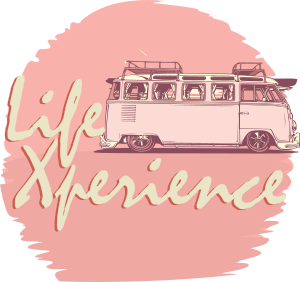
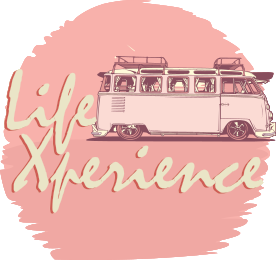
Añadidos iconos en Portal en Header y cambiado logotipo en el login a un tamaño adecuado para pantallas más pequeñas

diff --git a/Frontend/src/app/portal-web/portal-web-home/portal-web.component.html b/Frontend/src/app/portal-web/portal-web-home/portal-web.component.html
@@ -7,21 +7,81 @@
     <link href="https://cdn.jsdelivr.net/npm/bootstrap@5.2.0-beta1/dist/css/bootstrap.min.css" rel="stylesheet" integrity="sha384-0evHe/X+R7YkIZDRvuzKMRqM+OrBnVFBL6DOitfPri4tjfHxaWutUpFmBp4vmVor" crossorigin="anonymous">
   </head>
   <body>
+    <svg xmlns="http://www.w3.org/2000/svg" style="display: none;">
+      <symbol id="facebook" viewBox="0 0 16 16">
+        <path d="M16 8.049c0-4.446-3.582-8.05-8-8.05C3.58 0-.002 3.603-.002 8.05c0 4.017 2.926 7.347 6.75 7.951v-5.625h-2.03V8.05H6.75V6.275c0-2.017 1.195-3.131 3.022-3.131.876 0 1.791.157 1.791.157v1.98h-1.009c-.993 0-1.303.621-1.303 1.258v1.51h2.218l-.354 2.326H9.25V16c3.824-.604 6.75-3.934 6.75-7.951z"/>
+      </symbol>
+      <symbol id="instagram" viewBox="0 0 16 16">
+          <path d="M8 0C5.829 0 5.556.01 4.703.048 3.85.088 3.269.222 2.76.42a3.917 3.917 0 0 0-1.417.923A3.927 3.927 0 0 0 .42 2.76C.222 3.268.087 3.85.048 4.7.01 5.555 0 5.827 0 8.001c0 2.172.01 2.444.048 3.297.04.852.174 1.433.372 1.942.205.526.478.972.923 1.417.444.445.89.719 1.416.923.51.198 1.09.333 1.942.372C5.555 15.99 5.827 16 8 16s2.444-.01 3.298-.048c.851-.04 1.434-.174 1.943-.372a3.916 3.916 0 0 0 1.416-.923c.445-.445.718-.891.923-1.417.197-.509.332-1.09.372-1.942C15.99 10.445 16 10.173 16 8s-.01-2.445-.048-3.299c-.04-.851-.175-1.433-.372-1.941a3.926 3.926 0 0 0-.923-1.417A3.911 3.911 0 0 0 13.24.42c-.51-.198-1.092-.333-1.943-.372C10.443.01 10.172 0 7.998 0h.003zm-.717 1.442h.718c2.136 0 2.389.007 3.232.046.78.035 1.204.166 1.486.275.373.145.64.319.92.599.28.28.453.546.598.92.11.281.24.705.275 1.485.039.843.047 1.096.047 3.231s-.008 2.389-.047 3.232c-.035.78-.166 1.203-.275 1.485a2.47 2.47 0 0 1-.599.919c-.28.28-.546.453-.92.598-.28.11-.704.24-1.485.276-.843.038-1.096.047-3.232.047s-2.39-.009-3.233-.047c-.78-.036-1.203-.166-1.485-.276a2.478 2.478 0 0 1-.92-.598 2.48 2.48 0 0 1-.6-.92c-.109-.281-.24-.705-.275-1.485-.038-.843-.046-1.096-.046-3.233 0-2.136.008-2.388.046-3.231.036-.78.166-1.204.276-1.486.145-.373.319-.64.599-.92.28-.28.546-.453.92-.598.282-.11.705-.24 1.485-.276.738-.034 1.024-.044 2.515-.045v.002zm4.988 1.328a.96.96 0 1 0 0 1.92.96.96 0 0 0 0-1.92zm-4.27 1.122a4.109 4.109 0 1 0 0 8.217 4.109 4.109 0 0 0 0-8.217zm0 1.441a2.667 2.667 0 1 1 0 5.334 2.667 2.667 0 0 1 0-5.334z"/>
+      </symbol>
+      <symbol id="twitter" viewBox="0 0 16 16">
+        <path d="M5.026 15c6.038 0 9.341-5.003 9.341-9.334 0-.14 0-.282-.006-.422A6.685 6.685 0 0 0 16 3.542a6.658 6.658 0 0 1-1.889.518 3.301 3.301 0 0 0 1.447-1.817 6.533 6.533 0 0 1-2.087.793A3.286 3.286 0 0 0 7.875 6.03a9.325 9.325 0 0 1-6.767-3.429 3.289 3.289 0 0 0 1.018 4.382A3.323 3.323 0 0 1 .64 6.575v.045a3.288 3.288 0 0 0 2.632 3.218 3.203 3.203 0 0 1-.865.115 3.23 3.23 0 0 1-.614-.057 3.283 3.283 0 0 0 3.067 2.277A6.588 6.588 0 0 1 .78 13.58a6.32 6.32 0 0 1-.78-.045A9.344 9.344 0 0 0 5.026 15z"/>
+      </symbol>
+      <symbol id="home" viewBox="0 0 16 16">
+        <path d="M8.354 1.146a.5.5 0 0 0-.708 0l-6 6A.5.5 0 0 0 1.5 7.5v7a.5.5 0 0 0 .5.5h4.5a.5.5 0 0 0 .5-.5v-4h2v4a.5.5 0 0 0 .5.5H14a.5.5 0 0 0 .5-.5v-7a.5.5 0 0 0-.146-.354L13 5.793V2.5a.5.5 0 0 0-.5-.5h-1a.5.5 0 0 0-.5.5v1.293L8.354 1.146zM2.5 14V7.707l5.5-5.5 5.5 5.5V14H10v-4a.5.5 0 0 0-.5-.5h-3a.5.5 0 0 0-.5.5v4H2.5z"/>
+      </symbol>
+      <symbol id="speedometer2" viewBox="0 0 16 16">
+        <path d="M8 4a.5.5 0 0 1 .5.5V6a.5.5 0 0 1-1 0V4.5A.5.5 0 0 1 8 4zM3.732 5.732a.5.5 0 0 1 .707 0l.915.914a.5.5 0 1 1-.708.708l-.914-.915a.5.5 0 0 1 0-.707zM2 10a.5.5 0 0 1 .5-.5h1.586a.5.5 0 0 1 0 1H2.5A.5.5 0 0 1 2 10zm9.5 0a.5.5 0 0 1 .5-.5h1.5a.5.5 0 0 1 0 1H12a.5.5 0 0 1-.5-.5zm.754-4.246a.389.389 0 0 0-.527-.02L7.547 9.31a.91.91 0 1 0 1.302 1.258l3.434-4.297a.389.389 0 0 0-.029-.518z"/>
+        <path fill-rule="evenodd" d="M0 10a8 8 0 1 1 15.547 2.661c-.442 1.253-1.845 1.602-2.932 1.25C11.309 13.488 9.475 13 8 13c-1.474 0-3.31.488-4.615.911-1.087.352-2.49.003-2.932-1.25A7.988 7.988 0 0 1 0 10zm8-7a7 7 0 0 0-6.603 9.329c.203.575.923.876 1.68.63C4.397 12.533 6.358 12 8 12s3.604.532 4.923.96c.757.245 1.477-.056 1.68-.631A7 7 0 0 0 8 3z"/>
+      </symbol>
+      <symbol id="table" viewBox="0 0 16 16">
+        <path d="M0 2a2 2 0 0 1 2-2h12a2 2 0 0 1 2 2v12a2 2 0 0 1-2 2H2a2 2 0 0 1-2-2V2zm15 2h-4v3h4V4zm0 4h-4v3h4V8zm0 4h-4v3h3a1 1 0 0 0 1-1v-2zm-5 3v-3H6v3h4zm-5 0v-3H1v2a1 1 0 0 0 1 1h3zm-4-4h4V8H1v3zm0-4h4V4H1v3zm5-3v3h4V4H6zm4 4H6v3h4V8z"/>
+      </symbol>
+      <symbol id="people-circle" viewBox="0 0 16 16">
+        <path d="M11 6a3 3 0 1 1-6 0 3 3 0 0 1 6 0z"/>
+        <path fill-rule="evenodd" d="M0 8a8 8 0 1 1 16 0A8 8 0 0 1 0 8zm8-7a7 7 0 0 0-5.468 11.37C3.242 11.226 4.805 10 8 10s4.757 1.225 5.468 2.37A7 7 0 0 0 8 1z"/>
+      </symbol>
+      <symbol id="grid" viewBox="0 0 16 16">
+        <path d="M1 2.5A1.5 1.5 0 0 1 2.5 1h3A1.5 1.5 0 0 1 7 2.5v3A1.5 1.5 0 0 1 5.5 7h-3A1.5 1.5 0 0 1 1 5.5v-3zM2.5 2a.5.5 0 0 0-.5.5v3a.5.5 0 0 0 .5.5h3a.5.5 0 0 0 .5-.5v-3a.5.5 0 0 0-.5-.5h-3zm6.5.5A1.5 1.5 0 0 1 10.5 1h3A1.5 1.5 0 0 1 15 2.5v3A1.5 1.5 0 0 1 13.5 7h-3A1.5 1.5 0 0 1 9 5.5v-3zm1.5-.5a.5.5 0 0 0-.5.5v3a.5.5 0 0 0 .5.5h3a.5.5 0 0 0 .5-.5v-3a.5.5 0 0 0-.5-.5h-3zM1 10.5A1.5 1.5 0 0 1 2.5 9h3A1.5 1.5 0 0 1 7 10.5v3A1.5 1.5 0 0 1 5.5 15h-3A1.5 1.5 0 0 1 1 13.5v-3zm1.5-.5a.5.5 0 0 0-.5.5v3a.5.5 0 0 0 .5.5h3a.5.5 0 0 0 .5-.5v-3a.5.5 0 0 0-.5-.5h-3zm6.5.5A1.5 1.5 0 0 1 10.5 9h3a1.5 1.5 0 0 1 1.5 1.5v3a1.5 1.5 0 0 1-1.5 1.5h-3A1.5 1.5 0 0 1 9 13.5v-3zm1.5-.5a.5.5 0 0 0-.5.5v3a.5.5 0 0 0 .5.5h3a.5.5 0 0 0 .5-.5v-3a.5.5 0 0 0-.5-.5h-3z"/>
+      </symbol>
+      </svg>
+
     <header>
       <nav class="navigationbar navbar navbar-expand-md navbar-dark fixed-top">
         <div class="container-fluid">
-          <a class="navbar-brand" href="assets/images/login_bg.png"></a>
           <button class="navbar-toggler" type="button" data-bs-toggle="collapse" data-bs-target="#navbarCollapse" aria-controls="navbarCollapse" aria-expanded="false" aria-label="Toggle navigation">
             <span class="navbar-toggler-icon"></span>
           </button>
-          <img src="../assets/images/vanLogin2.png" style="width: 2.5%; height: 100%; margin-right: 1%;">
+          <img src="../assets/images/vanLogin2.png" style="width: 4%; height: 100%; margin-right: 1%;">
           <div class="collapse navbar-collapse" id="navbarCollapse">
-            <ul class="navbar-nav me-auto mb-2 mb-md-0">
+            <!--ul class="navbar-nav me-auto mb-2 mb-md-0">
               <li class="nav-item">
                 <a class="nav-link active" aria-current="page" href="index">Inicio</a>
               </li>
               <li class="nav-item">
                 <a class="nav-link active" href="http://localhost:4299/main/home">Administración</a>
+              </li>
+            </ul-->
+            <ul class="nav col-12 col-lg-auto my-2 justify-content-center my-md-0 text-small">
+              <li>
+                <a href="" class=" nav-link text-white">
+                  <svg class="text-success bi d-block mx-auto mb-1 text-white" width="24" height="24" fill="currentColor"><use xlink:href="#home"/></svg>
+                  Home
+                </a>
+              </li>
+              <li>
+                <a href="http://localhost:4299/main/home" class="nav-link text-white">
+                  <svg class="bi d-block mx-auto mb-1 text-white" width="24" height="24" fill="currentColor"><use xlink:href="#speedometer2"/></svg>
+                  Dashboard
+                </a>
+              </li>
+              <li>
+                <a href="#" class="nav-link text-white">
+                  <svg class="bi d-block mx-auto mb-1 text-white" width="24" height="24"fill="currentColor"><use xlink:href="#table"/></svg>
+                  Orders
+                </a>
+              </li>
+              <li>
+                <a href="#" class="nav-link text-white">
+                  <svg class="bi d-block mx-auto mb-1 text-white" width="24" height="24"fill="currentColor"><use xlink:href="#grid"/></svg>
+                  Products
+                </a>
+              </li>
+              <li>
+                <a href="#" class="nav-link text-white">
+                  <svg class="bi d-block mx-auto mb-1 text-white" width="24" height="24"fill="currentColor"><use xlink:href="#people-circle"/></svg>
+                  Customers
+                </a>
               </li>
             </ul>
           </div>
@@ -62,18 +122,24 @@
           </div>
         </div>
       </div>
+      <div class="container">
+        <footer class="d-flex flex-wrap justify-content-between align-items-center py-3 my-4 border-top">
+          <div class="col-md-4 d-flex align-items-center">
+            <a href="/" class="mb-3 me-2 mb-md-0 text-muted text-decoration-none lh-1">
+              <svg class="bi" width="30" height="24"><use xlink:href="#bootstrap"/></svg>
+            </a>
+            <span class="mb-3 mb-md-0 text-muted">&copy; 2022 Life Xperience Tlf: +34 472834559</span>
 
-    </main>
+          </div>
 
-    <footer class="text-muted py-5">
-      <div class="container d-flex justify-content-around">
-        <p class="lead mb-4"><span class="bold">Tlf Contacto</span>: 472834559</p>
-        <div>
-          <a href="http://facebook.com"> <img src="../../../assets/icons/facebook.png" alt="facebook icon" width="50px" height="50px" class="m-2"/></a>
-          <a href="http://twitter.com"><img src="../../../assets/icons/gorjeo.png" alt="twitter icon" width="50px" height="50px" class="m-2"/></a>
-        </div>
+          <ul class="nav col-md-4 justify-content-end list-unstyled d-flex">
+            <li class="ms-3"><a class="text-muted" href="https://www.twitter.com"><svg class="bi" width="24" height="24"fill="currentColor"><use xlink:href="#twitter"/></svg></a></li>
+            <li class="ms-3"><a class="text-muted" href="https://www.instagram.com"><svg class="bi" width="24" height="24"fill="currentColor"><use xlink:href="#instagram"/></svg></a></li>
+            <li class="ms-3"><a class="text-muted" href="https://www.facebook.com"><svg class="bi" width="24" height="24"fill="currentColor"><use xlink:href="#facebook"/></svg></a></li>
+          </ul>
+        </footer>
       </div>
-    </footer>
+    </main>
     <script src="https://cdn.jsdelivr.net/npm/bootstrap@5.2.0-beta1/dist/js/bootstrap.bundle.min.js" integrity="sha384-pprn3073KE6tl6bjs2QrFaJGz5/SUsLqktiwsUTF55Jfv3qYSDhgCecCxMW52nD2" crossorigin="anonymous"></script>
   </body>
 

diff --git a/Frontend/src/app/portal-web/portal-web-home/portal-web.component.scss b/Frontend/src/app/portal-web/portal-web-home/portal-web.component.scss
@@ -34,7 +34,9 @@
   }
   cursor: pointer;
 }
-
+ .icons{
+  color: white;
+ }
 .full-page {
   width: 100%;
   height: 100%;
